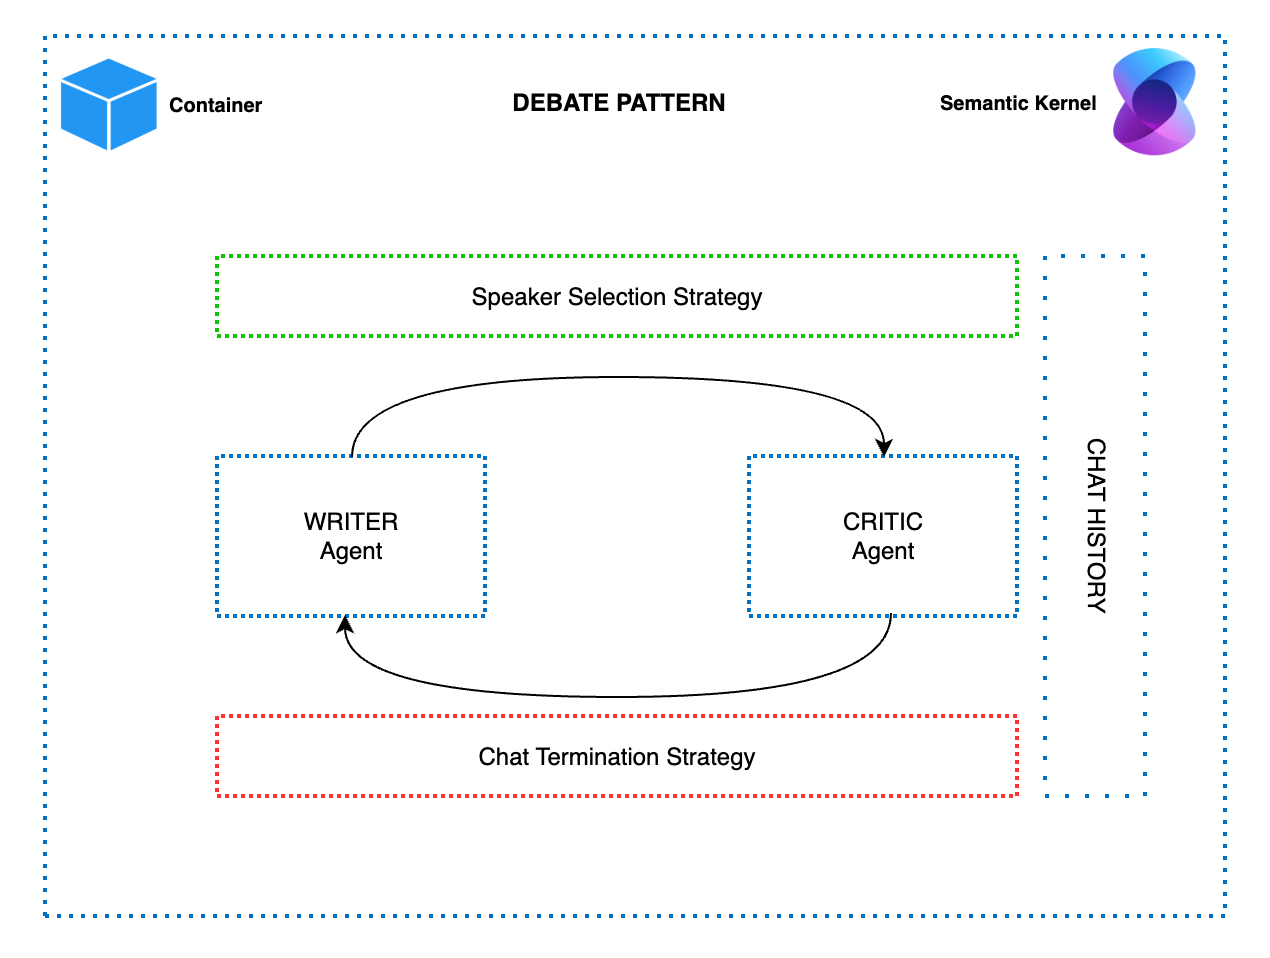
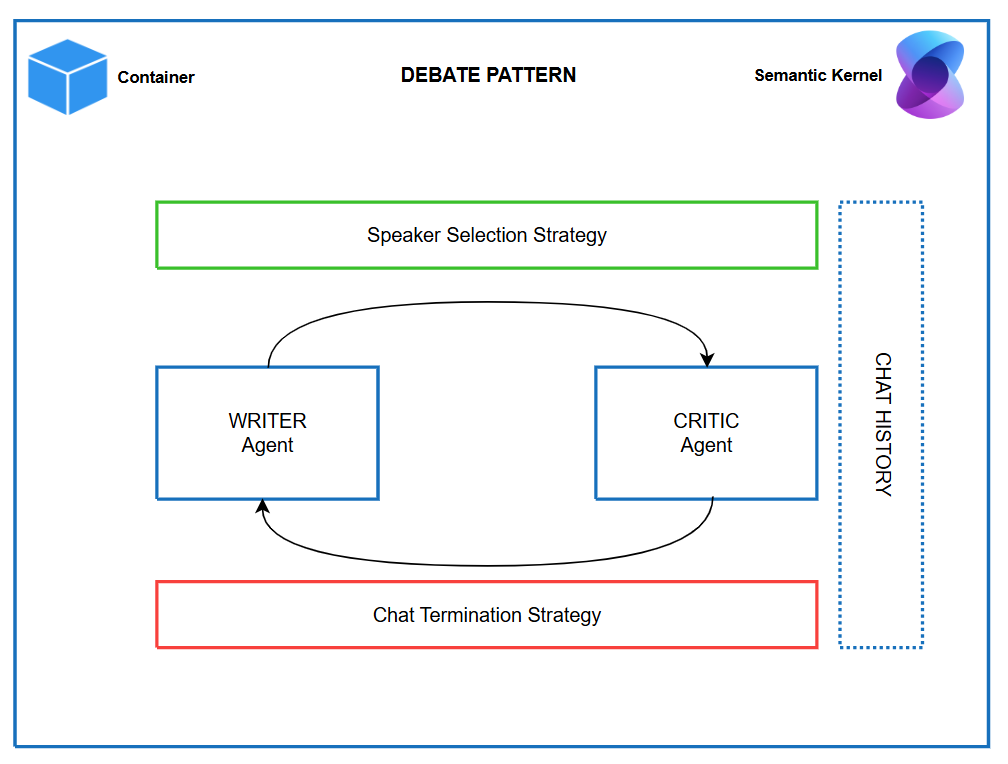
Description and Architecture diagrams update (#5)
* Updated architecture diagrams
* Updated the Issue and PR templates

diff --git a/README.md b/README.md
@@ -1,4 +1,4 @@
-# AI Application chassis - best AI app practices optimized for Azure
+# AI Applications Chassis - AI Apps Best Practices Tailored for Azure
 
 ToC: [**USER STORY**](#user-story) \| [**GETTING STARTED**](#getting-started)  \| [**HOW IT WORKS**](#how-it-works)
 
@@ -6,10 +6,7 @@ ToC: [**USER STORY**](#user-story) \| [**GETTING STARTED**](#getting-started)  \
 
 ### Azure AI App Kickstarter overview
 
-An opinionated set of best practices and patterns to bootstrap your Multi Agent application in minutes.
-
-
-
+L100 level aplication stub for an AI copilot/agent.
 
 ## Getting Started
 
@@ -130,8 +127,10 @@ uv run streamlit app.py
 
 ### User Manual
 
-The AI Traces you will be able to find in AI Foundry Project under "Tracing".
-If you click on one of the traces you will see a detailed history view with every agent,
+To access AI Traces go to https://ai.azure.com and select the "Tracing" menu:
+<img src="doc/images/tracing-menu.png" alt="Azure AI Foundry Portal Tracing Menu" width="800">
+
+If you click on one of the traces you will see a detailed view with every agent,
 prompt, etc.:
 <img src="doc/images/tracing.png" alt="Azure AI Foundry Portal Trace Detail" width="800">
 
@@ -177,24 +176,27 @@ export aoaikeysecret="key"
 
 ### Architecture
 
-#### High level Infrasturcture Architechture
+#### Overall architecture with Infrasturcture and hosting components
 
 The highlevel architecture for the Kickstarter is:
 <img src="doc/images/arch-infra.png" alt="High level Kickstarter architecture - infra view" width="800">
 
+The cognitive architecture of the application is composed of Semantic Kernel's 
+
 #### Cognitive architecture
 
-This architecture implements a **Debate Pattern** leveraging the **Semantic Kernel's agent framework**, which creates a dynamic environment where multiple AI agents collaborate to refine ideas, test arguments, or reach a resolution.
+This architecture implements a **Debate Pattern** leveraging the **Semantic Kernel's agent framework**, which creates a dynamic environment where multiple AI agents collaborate to refine ideas, test arguments, or reach a resolution. Below is a description of the essential components and their interactions in the architecture:
 
-The core architecture components based on Semantic Kernel abstractions:
-
+The core components are:
    - **Speaker Selection Strategy** (Green Box):
      - This component determines which agent (WRITER or CRITIC) "speaks" next.
      - It ensures productive collaboration by regulating the flow of interaction between the agents and preventing redundant actions.
-   - **WRITER Agent**: provides the initial proposal and the subsequent revisions following the direction from critic.
-   - **CRITIC Agent**: evaluates the text and provides constructive feedback to drive readibility and popularity of the post. Provides scoring across a number of categories and a final score.
+   - **WRITER Agent**: provides the initial proposal or subsequent contributions that may evolve based on critique.
+   - **CRITIC Agent**: evaluates and provides constructive criticism of the content or arguments presented by the WRITER agent. It offers counterpoints, highlights flaws, or suggests improvements to refine the proposals made by the WRITER.
    - **Chat Termination Strategy** (Red Box):
-     - This component decides when the conversation has reached a satisfactory conclusion. It takes the overall critic score and compares to acceptance treshold. 
+     - This component decides when the debate or conversation has reached a satisfactory conclusion.
+
+   Both agents operate in a conversational loop where the CRITIC responds to the WRITER's output, and the WRITER iteratively refines its answers based on the CRITIC's feedback. 
 
 Semantic Kernel powers the agents with features like prompt engineering, memory recall, and logic orchestration.
 

diff --git a/.github/ISSUE_TEMPLATE.md b/.github/ISSUE_TEMPLATE.md
@@ -21,8 +21,9 @@ IF SUFFICIENT INFORMATION IS NOT PROVIDED VIA THE FOLLOWING TEMPLATE THE ISSUE M
 ### Expected/desired behavior
 >
 
-### OS and Version?
+### OS and Version? Shell ?
 > Windows 7, 8 or 10. Linux (which distribution). macOS (Yosemite? El Capitan? Sierra?)
+> Bash, Zsh, PowerShell
 
 ### Versions
 >

diff --git a/.github/PULL_REQUEST_TEMPLATE.md b/.github/PULL_REQUEST_TEMPLATE.md
@@ -28,8 +28,7 @@ What kind of change does this Pull Request introduce?
 ```
 git clone [repo-address]
 cd [repo-name]
-git checkout [branch-name]
-npm install
+azd up
 ```
 
 * Test the code
